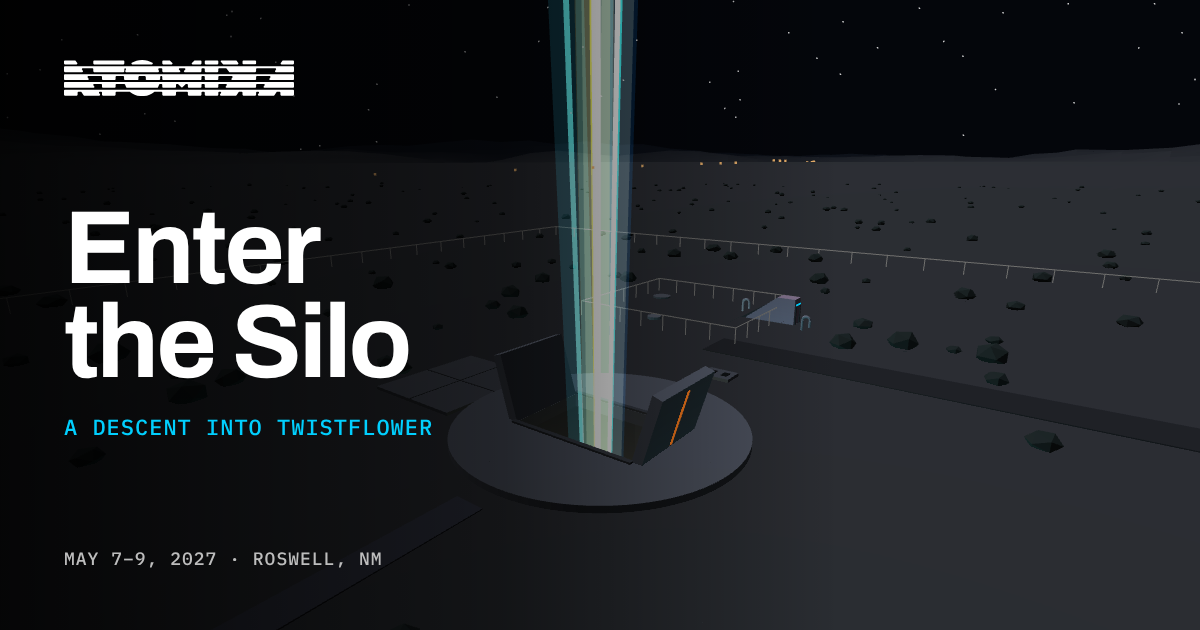
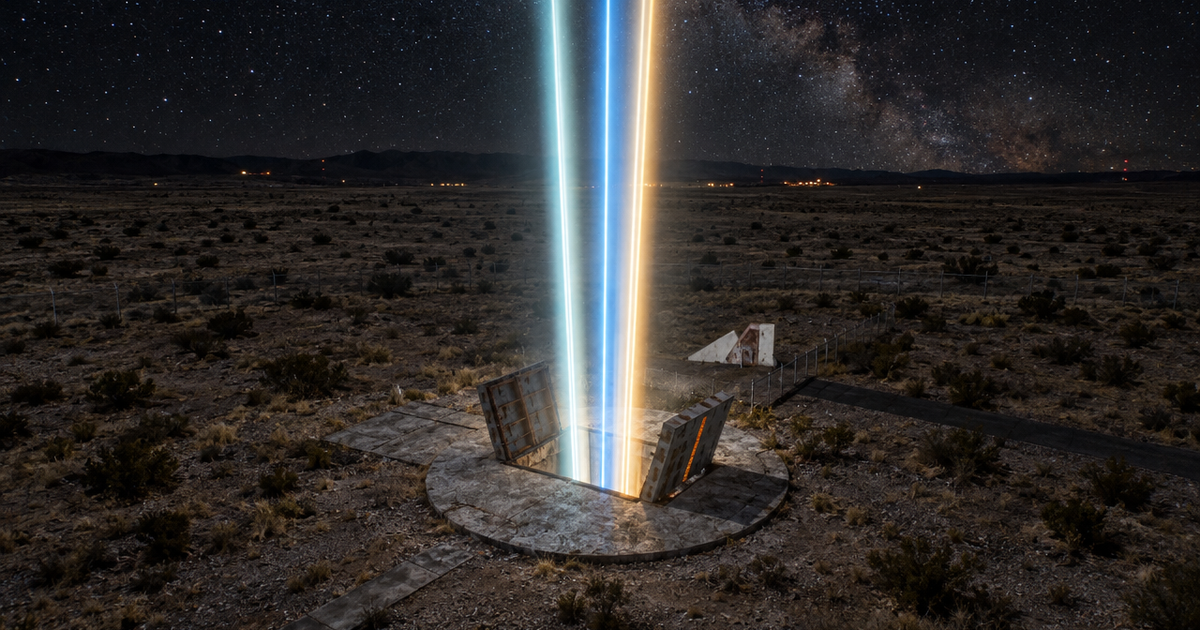
Show photoreal station plates on arrival
Seven stations now dissolve from the 3D flight into a photoreal plate
when the camera arrives, with a slow drift; dragging fades back to the
live 3D view. The share image is now the photoreal open-doors shot.

Claude-Session: https://claude.ai/code/session_01SHkDsMzJr9bPJRPruvVHom

diff --git a/index.html b/index.html
@@ -18,7 +18,7 @@
 <meta property="og:image" content="https://demo.atomikafest.com/og.png">
 <meta property="og:image:width" content="1200">
 <meta property="og:image:height" content="630">
-<meta property="og:image:alt" content="A low-poly render of the Twistflower silo at night, doors open, with laser beams rising into the sky.">
+<meta property="og:image:alt" content="The open doors of the Twistflower silo at night, with laser beams rising into the starry desert sky.">
 <meta name="twitter:card" content="summary_large_image">
 <meta name="twitter:title" content="Enter the Silo | ATOMIKA">
 <meta name="twitter:description" content="An interactive descent into the Twistflower missile silo near Roswell, New Mexico.">
@@ -84,6 +84,10 @@ h1{margin:0;font-size:clamp(28px,5.4vw,40px);line-height:.98;font-weight:700;fon
 .rail button:focus-visible{outline:2px solid var(--cyan)}
 @media (max-width:899px){.rail{display:none}}
 #labels{position:fixed;inset:0;pointer-events:none;z-index:4}
+/* photoreal station plates: shown on arrival, dissolve back to the live 3D view on drag or departure */
+#photos{position:fixed;inset:0;z-index:2;pointer-events:none;overflow:hidden;background:transparent}
+#photos img{position:absolute;inset:-4%;width:108%;height:108%;object-fit:cover;opacity:0;will-change:opacity,transform}
+@media (prefers-reduced-motion:reduce){#photos img{inset:0;width:100%;height:100%}}
 .tag{position:absolute;left:0;top:0;pointer-events:auto;display:flex;align-items:center;gap:6px;transform:translate(-50%,-100%);white-space:nowrap;
   font-family:var(--mono);font-size:11px;letter-spacing:.06em;color:var(--cyan);background:rgba(0,0,0,.72);border:1px solid rgba(1,207,254,.55);border-radius:999px;padding:6px 10px;cursor:default;transition:opacity .25s}
 .tag.go{cursor:pointer;background:var(--cyan);color:#000;border-color:var(--cyan)}
@@ -99,6 +103,7 @@ h1{margin:0;font-size:clamp(28px,5.4vw,40px);line-height:.98;font-weight:700;fon
 </head>
 <body>
 <div id="stage"><canvas id="c" tabindex="0" aria-label="3D view of the Twistflower missile site. Drag to look around; use the Next and Back buttons to move between stations."></canvas></div>
+<div id="photos" aria-hidden="true"></div>
 <div id="labels" aria-hidden="false"></div>
 
 <header class="top">
@@ -856,6 +861,22 @@ canvas.addEventListener('pointermove', e => { if (!drag || anim) return; const d
 const endDrag = () => { drag = null; canvas.classList.remove('dragging'); };
 canvas.addEventListener('pointerup', endDrag); canvas.addEventListener('pointercancel', endDrag);
 
+/* ---------- photoreal station plates (concepts/README.md has how they were made) ---------- */
+const PHOTOS = {1:'02-approach', 2:'03-festival-grounds', 3:'04-the-site', 4:'05-entry', 5:'06-stair-shaft', 6:'07-launch-control-1962', 10:'11-through-the-doors'};
+const plates = {};
+Object.keys(PHOTOS).forEach(k => { const img = new Image(); img.alt = ''; img.decoding = 'async'; const pl = {img, ready:false, a:0, t0:0};
+  img.onload = () => { pl.ready = true; }; img.src = 'stations/' + PHOTOS[k] + '.jpg'; $('photos').appendChild(img); plates[k] = pl; });
+let plateLast = 0;
+function updatePlates(now){ const dt = plateLast ? Math.min(0.1, (now - plateLast)/1000) : 0; plateLast = now;
+  const look = Math.min(1, Math.max(Math.abs(yaw)/0.3, Math.abs(pitch)/0.25));
+  for (const k in plates){ const pl = plates[k], here = +k === stop && !anim && pl.ready;
+    const target = here ? 1 - smooth(0.35, 1, look) : 0;
+    if (here && pl.a === 0) pl.t0 = now;
+    const rate = target > pl.a ? 1.1 : 2.6; pl.a += Math.sign(target - pl.a) * Math.min(Math.abs(target - pl.a), dt*rate);
+    if (pl.a < 0.002 && target === 0) pl.a = 0;
+    pl.img.style.opacity = pl.a.toFixed(3);
+    if (pl.a > 0 && !reduce){ const z = 1 + Math.min(1, (now - pl.t0)/24000)*0.035; pl.img.style.transform = 'translate(' + (-yaw*3).toFixed(2) + '%,' + (pitch*3).toFixed(2) + '%) scale(' + z.toFixed(4) + ')'; } } }
+
 /* ---------- loop ---------- */
 const ease = t => t<0.5 ? 4*t*t*t : 1 - Math.pow(-2*t+2,3)/2;
 let composer = null, finalPass = null;
@@ -927,7 +948,7 @@ function frame(now){
   { const dt = lastF ? Math.min(0.1, (now - lastF)/1000) : 1; lastF = now; const target = camera.position.y < -1.5 ? EXPOSURE_BELOW : EXPOSURE; exposure += (target - exposure)*Math.min(1, dt*2.5);
     if (composer) finalPass.uniforms.exposure.value = exposure; else renderer.toneMappingExposure = exposure; }
   if (composer){ finalPass.uniforms.time.value = s; composer.render(); } else renderer.render(scene, camera);
-  adaptQuality(now);
+  updatePlates(now); adaptQuality(now);
   requestAnimationFrame(frame);
 }
 /* soundtrack: browsers only allow sound after a tap, so it starts on the first interaction and loops for the whole journey */

diff --git a/README.md b/README.md
@@ -8,6 +8,7 @@ Live at https://demo.atomikafest.com
 - Rendering: linear HDR scene, ACES filmic tone mapping, bloom, film grain and vignette; moonlight shadows; image-based reflections (procedural night sky outside, a fluorescent-room environment underground); exposure adapts when you go below grade. Pixel ratio steps down automatically on slower devices; add `?hq` to turn that off.
 - `tex/` holds photo-scanned PBR textures (color, normal, roughness at 1k) from [Poly Haven](https://polyhaven.com), CC0. Each is tinted in code so it averages to the color it replaced in the original palette.
 - `?station=N` opens straight at station N (1 to 11).
+- `stations/` holds photoreal plates for stations 2–7 and 11. The camera flies through the 3D scene, and on arrival the view dissolves into the plate; dragging to look around fades back to the live 3D. Stations without a plate stay 3D. The plates are AI re-renders of the 3D frames; sources, every variation and the prompts are in `concepts/` (see `concepts/README.md`).
 - `og.png` is the social share image.
 - Hosted on GitHub Pages; `CNAME` sets the custom domain.
 
